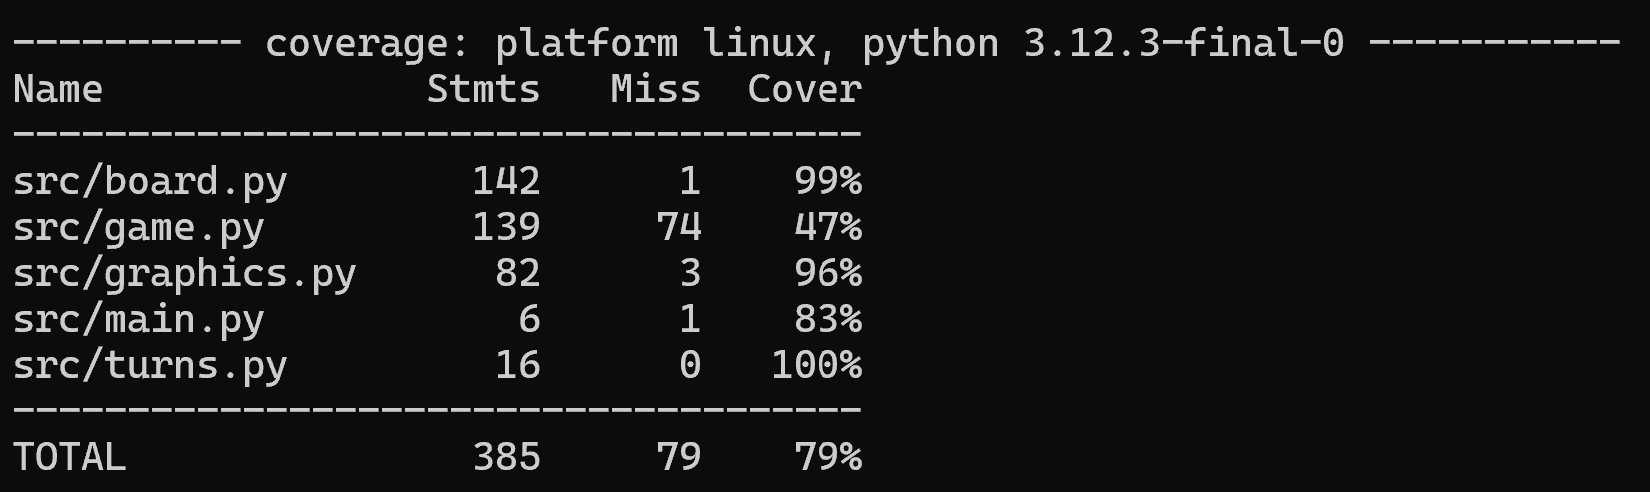
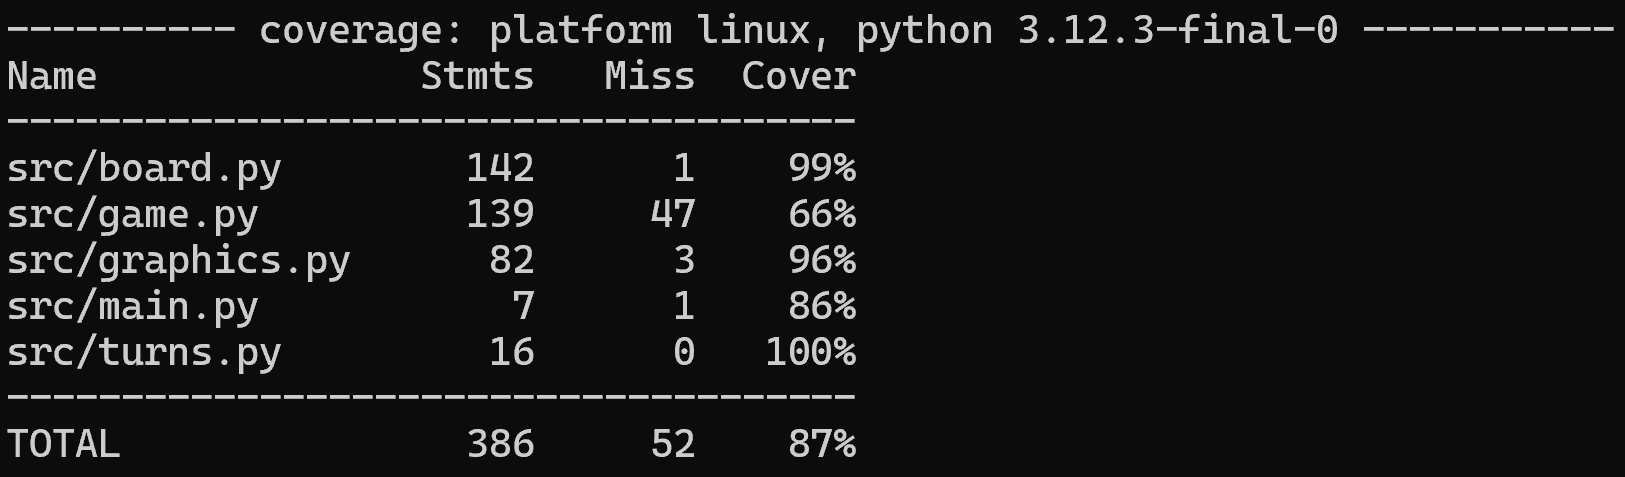
updated coverage report

diff --git a/docs/game.html b/docs/game.html
@@ -357,7 +357,7 @@ game    </h1>
 </span><span id="L-267"><a href="#L-267"><span class="linenos">267</span></a>                        <span class="bp">self</span><span class="o">.</span><span class="n">board</span><span class="o">.</span><span class="n">reset</span><span class="p">()</span>  <span class="c1"># Reset the board</span>
 </span><span id="L-268"><a href="#L-268"><span class="linenos">268</span></a>                        <span class="bp">self</span><span class="o">.</span><span class="n">draw</span><span class="o">.</span><span class="n">gameboard</span><span class="p">()</span>  <span class="c1"># Redraw the empty board</span>
 </span><span id="L-269"><a href="#L-269"><span class="linenos">269</span></a>
-</span><span id="L-270"><a href="#L-270"><span class="linenos">270</span></a>                        <span class="n">game_over</span> <span class="o">=</span> <span class="kc">False</span>  <span class="c1"># Allow the gameloop to continue</span>
+</span><span id="L-270"><a href="#L-270"><span class="linenos">270</span></a>                        <span class="n">game_over</span> <span class="o">=</span> <span class="kc">True</span>  <span class="c1"># Calling recursively, should end</span>
 </span><span id="L-271"><a href="#L-271"><span class="linenos">271</span></a>
 </span><span id="L-272"><a href="#L-272"><span class="linenos">272</span></a>                        <span class="c1"># reset turn variables</span>
 </span><span id="L-273"><a href="#L-273"><span class="linenos">273</span></a>                        <span class="bp">self</span><span class="o">.</span><span class="n">turn</span><span class="o">.</span><span class="n">_turn_count</span> <span class="o">=</span> <span class="mi">0</span>
@@ -638,7 +638,7 @@ game    </h1>
 </span><span id="Game-268"><a href="#Game-268"><span class="linenos">268</span></a>                        <span class="bp">self</span><span class="o">.</span><span class="n">board</span><span class="o">.</span><span class="n">reset</span><span class="p">()</span>  <span class="c1"># Reset the board</span>
 </span><span id="Game-269"><a href="#Game-269"><span class="linenos">269</span></a>                        <span class="bp">self</span><span class="o">.</span><span class="n">draw</span><span class="o">.</span><span class="n">gameboard</span><span class="p">()</span>  <span class="c1"># Redraw the empty board</span>
 </span><span id="Game-270"><a href="#Game-270"><span class="linenos">270</span></a>
-</span><span id="Game-271"><a href="#Game-271"><span class="linenos">271</span></a>                        <span class="n">game_over</span> <span class="o">=</span> <span class="kc">False</span>  <span class="c1"># Allow the gameloop to continue</span>
+</span><span id="Game-271"><a href="#Game-271"><span class="linenos">271</span></a>                        <span class="n">game_over</span> <span class="o">=</span> <span class="kc">True</span>  <span class="c1"># Calling recursively, should end</span>
 </span><span id="Game-272"><a href="#Game-272"><span class="linenos">272</span></a>
 </span><span id="Game-273"><a href="#Game-273"><span class="linenos">273</span></a>                        <span class="c1"># reset turn variables</span>
 </span><span id="Game-274"><a href="#Game-274"><span class="linenos">274</span></a>                        <span class="bp">self</span><span class="o">.</span><span class="n">turn</span><span class="o">.</span><span class="n">_turn_count</span> <span class="o">=</span> <span class="mi">0</span>
@@ -1002,7 +1002,7 @@ place their piece in.</p>
 </span><span id="Game.game_loop-268"><a href="#Game.game_loop-268"><span class="linenos">268</span></a>                        <span class="bp">self</span><span class="o">.</span><span class="n">board</span><span class="o">.</span><span class="n">reset</span><span class="p">()</span>  <span class="c1"># Reset the board</span>
 </span><span id="Game.game_loop-269"><a href="#Game.game_loop-269"><span class="linenos">269</span></a>                        <span class="bp">self</span><span class="o">.</span><span class="n">draw</span><span class="o">.</span><span class="n">gameboard</span><span class="p">()</span>  <span class="c1"># Redraw the empty board</span>
 </span><span id="Game.game_loop-270"><a href="#Game.game_loop-270"><span class="linenos">270</span></a>
-</span><span id="Game.game_loop-271"><a href="#Game.game_loop-271"><span class="linenos">271</span></a>                        <span class="n">game_over</span> <span class="o">=</span> <span class="kc">False</span>  <span class="c1"># Allow the gameloop to continue</span>
+</span><span id="Game.game_loop-271"><a href="#Game.game_loop-271"><span class="linenos">271</span></a>                        <span class="n">game_over</span> <span class="o">=</span> <span class="kc">True</span>  <span class="c1"># Calling recursively, should end</span>
 </span><span id="Game.game_loop-272"><a href="#Game.game_loop-272"><span class="linenos">272</span></a>
 </span><span id="Game.game_loop-273"><a href="#Game.game_loop-273"><span class="linenos">273</span></a>                        <span class="c1"># reset turn variables</span>
 </span><span id="Game.game_loop-274"><a href="#Game.game_loop-274"><span class="linenos">274</span></a>                        <span class="bp">self</span><span class="o">.</span><span class="n">turn</span><span class="o">.</span><span class="n">_turn_count</span> <span class="o">=</span> <span class="mi">0</span>
